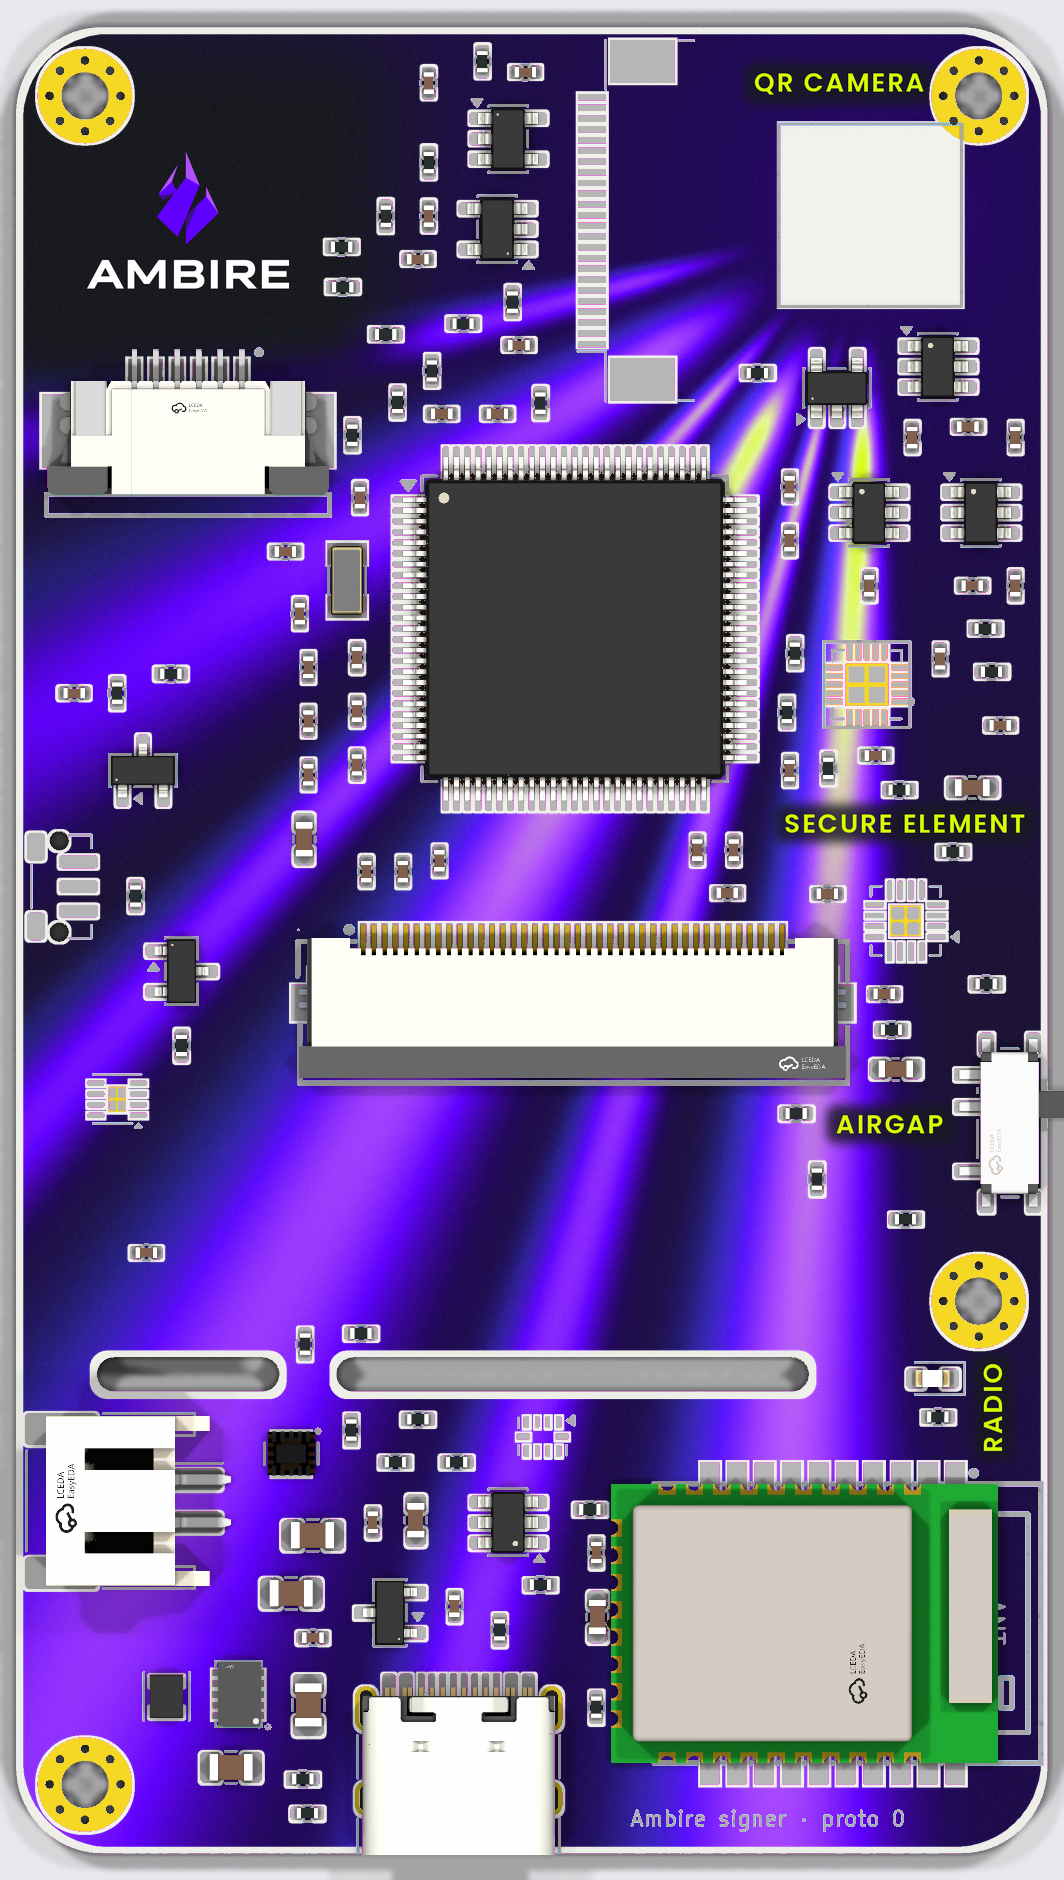
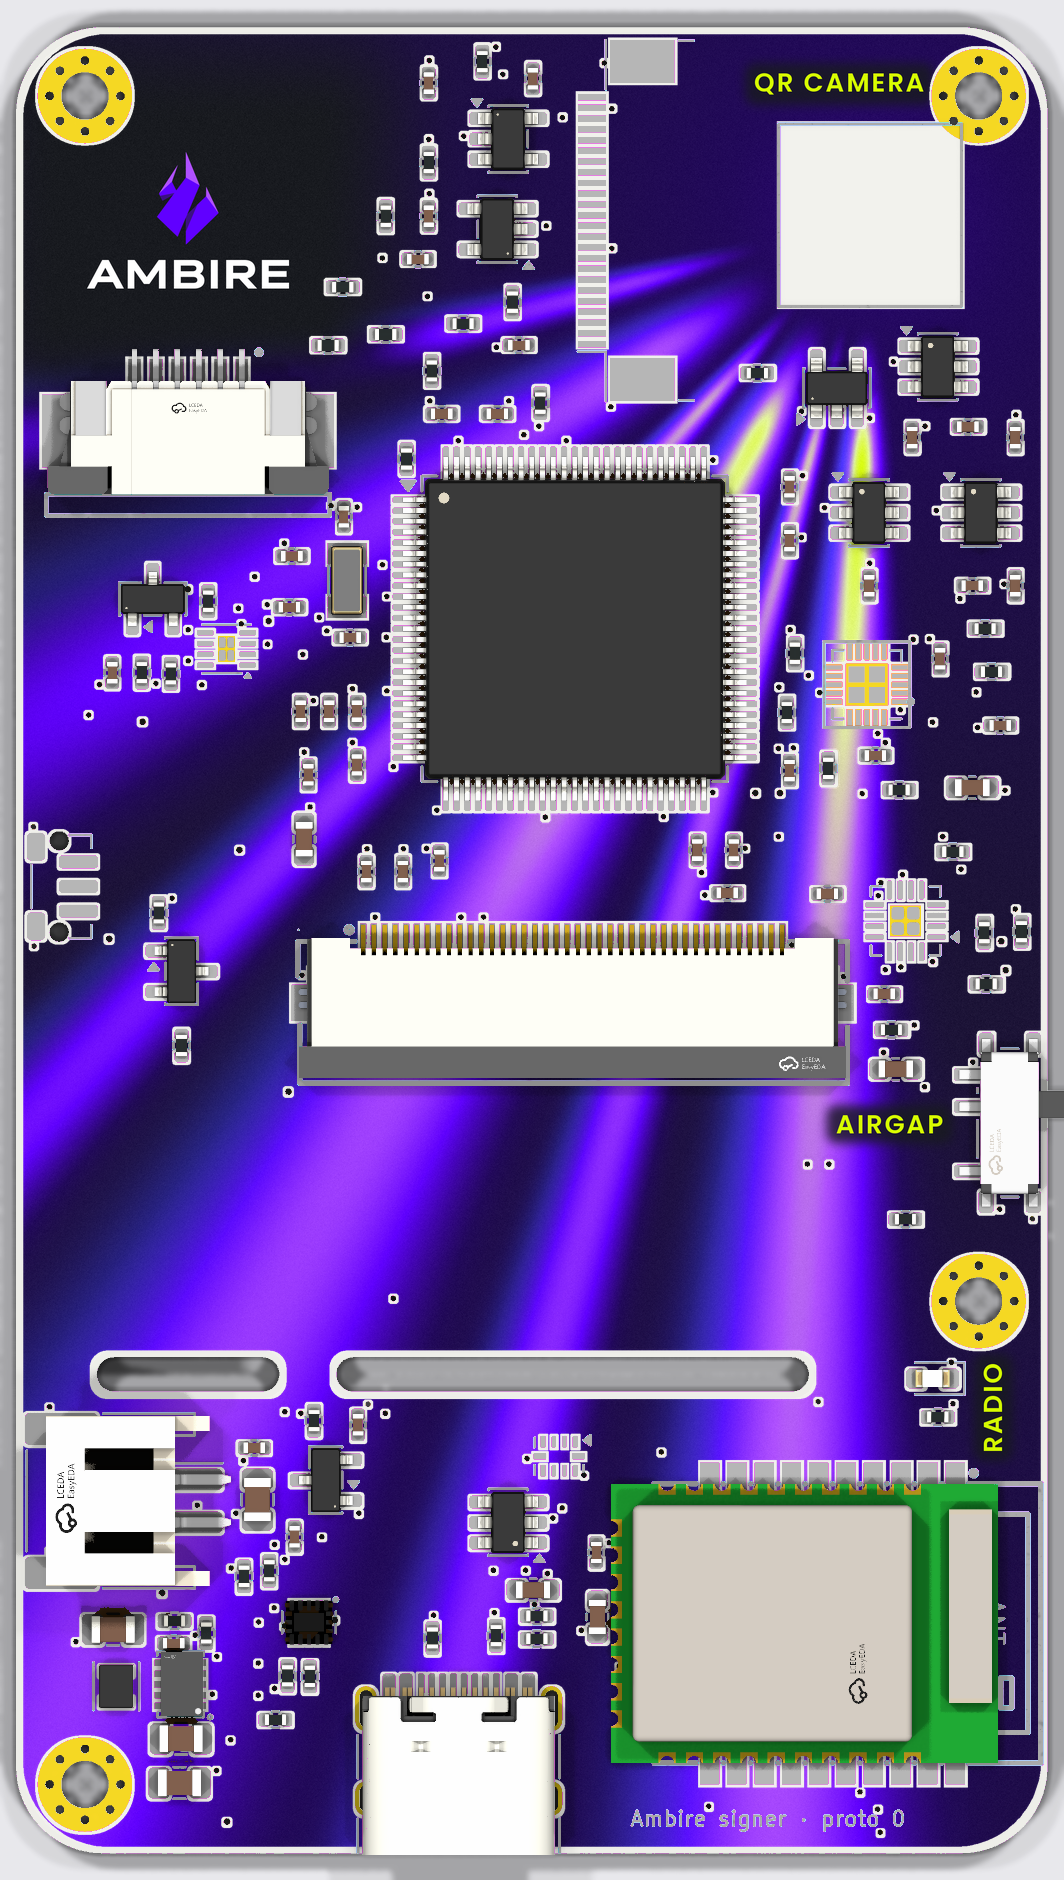
README: UV-art preview of the back face, rebuilt on the current placement
The art previews were from the 10-14 placement; rebuilt on the owner's
placement. SECURE ELEMENT no longer finds a clear spot and is left as plain silk.

diff --git a/art/README.md b/art/README.md
@@ -59,7 +59,7 @@ JLC calls this service "EasyEDA multi-color silkscreen". Sources:
 
 ## Files
 
-- `out/uv_back_seen_from_behind.png`: **the print file**. RGBA, 1200 DPI, 2268×3874 px = 48.00×82.00 mm. It shows the back as a person sees it. Transparent pixels mean no ink.
+- `out/uv_back_seen_from_behind.png`: **the print file**. RGBA, 1200 DPI, 2268×4016 px = 48.00×85.00 mm. It shows the back as a person sees it. Transparent pixels mean no ink.
 - `out/uv_back_kicad_front_view.png`: the same image mirrored, in KiCad's front-looking coordinates (the frame bottom-layer Gerbers use).
 - `out/check_no_ink.png`: the art over white mask, with every pad, opening, drill and the camera window in red. Red must never touch colour; the build also checks this itself.
 - `preview_back.png`: the art on a fresh 3D render of the back.

diff --git a/README.md b/README.md
@@ -13,7 +13,9 @@ to the GridCore hardware it borrows from, until it moves to its own repo.
   shared with the team (renders, clear-signing screens, stack, architecture);
   live copy: https://claude.ai/artifact/LLUtmWoVMm4PUxiSL7d5Ad
 
-![Back face, as the clear case shows it](docs/back-face-render.png)
+<img src="docs/back-face-uv.jpg" width="420" alt="Back face through the clear case, with the UV-printed Ambire artwork">
+
+*The back face as the clear case shows it, with the UV-printed artwork (rebuilt from the current placement by `art/build_uv.py`). Display flex tails in orange; camera module drawn on.*
 
 ## Board flow
 
